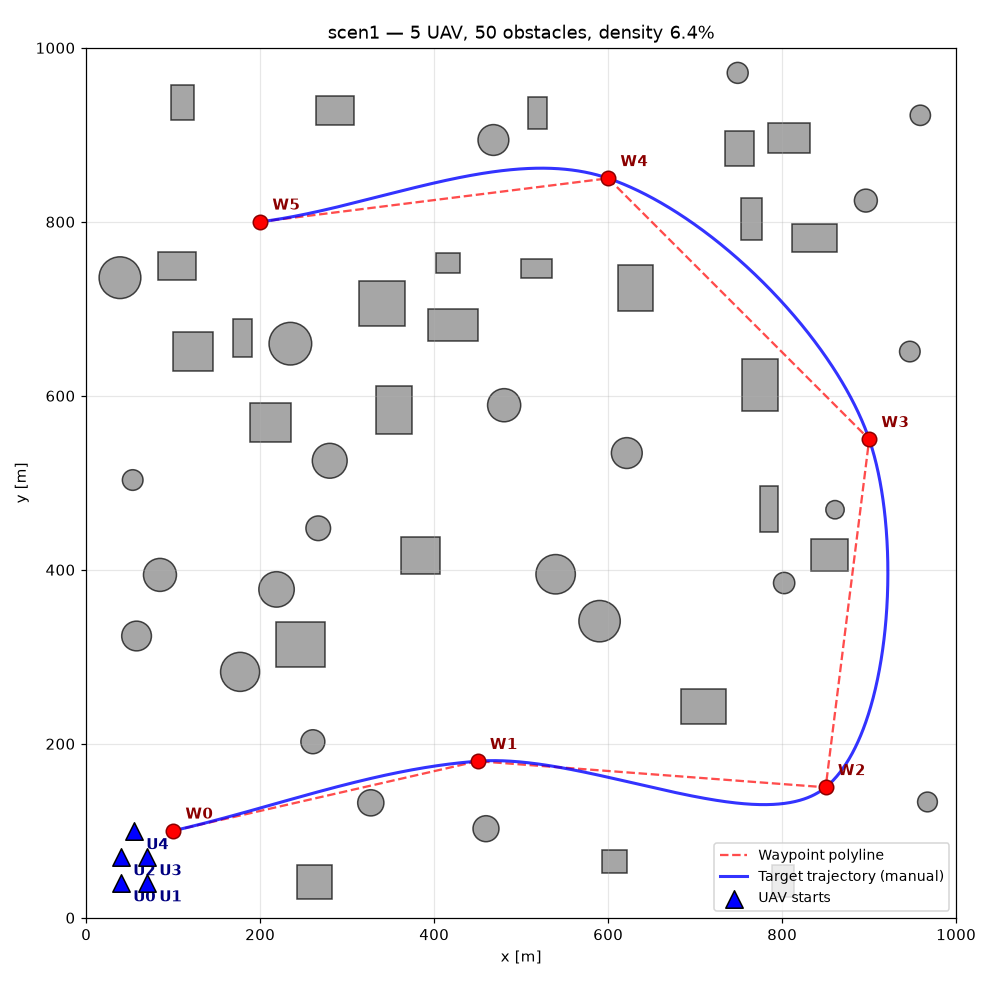
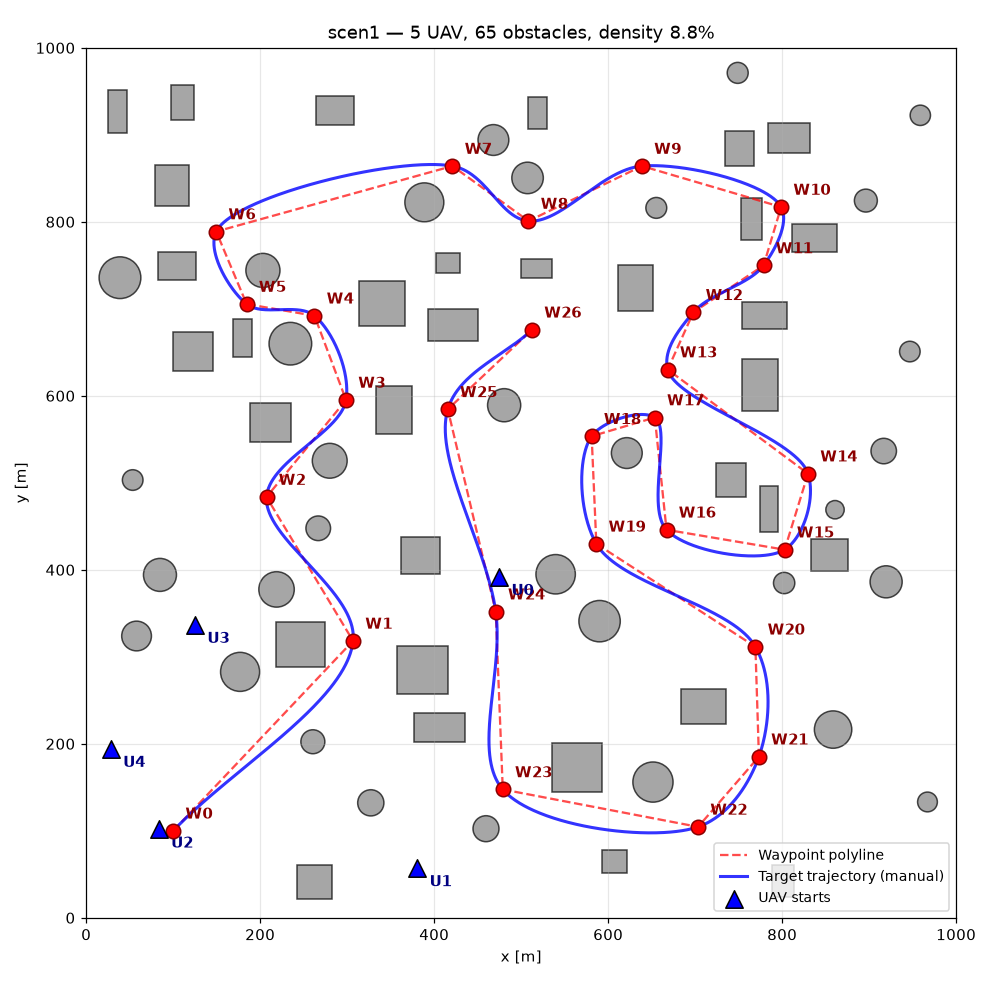
modify

diff --git a/mpc_problem.py b/mpc_problem.py
@@ -94,15 +94,19 @@ class MPCProblem:
         # X[0] is the measured state and is not constrained: a UAV already inside
         # the R margin of a face (by e) made the problem infeasible at every step,
         # it braked, stayed there and failed again (a 65 s deadlock in scen2).
-        # Instead, within the first CORRIDOR_RECOVER_STEPS steps the UAV may stay
-        # inside the margin by at most e: e for the first half (a UAV at rest
-        # cannot move away at once: acceleration lag), then shrinking linearly to
-        # 0. It never goes deeper than now and is out of the margin after that
-        # time. A UAV outside the margin has e = 0, i.e. the plain constraint
-        # A p <= b - R at every step.
-        K = max(2, int(cfg["CORRIDOR_RECOVER_STEPS"]))
+        # Instead the UAV may stay inside the margin by at most what it can have
+        # covered by then: allow(t) = max(0, e - s(t)), with s(t) = 0 for
+        # t <= CORRIDOR_RECOVER_HOLD (acceleration lag) and then the distance
+        # travelled from rest at CORRIDOR_RECOVER_ACCEL_RATIO * UMAX. It never goes
+        # deeper than now, a UAV at rest can always comply (half of UMAX), and the
+        # time to get out grows with e: ~0.7 s for 0.25 m, ~1.6 s for 2.25 m (a
+        # fixed 1 s deadline was infeasible for 2.25 m, another deadlock in scen2).
+        # A UAV outside the margin has e = 0: plain A p <= b - R at every step.
+        a_rec = cfg["CORRIDOR_RECOVER_ACCEL_RATIO"] * cfg["UMAX"]
+        t_hold = cfg["CORRIDOR_RECOVER_HOLD"]
         for i in range(1, H + 1):
-            allow = p["corr_relax"] * min(1.0, max(0.0, (K - i) / (K / 2)))
+            s_i = 0.5 * a_rec * max(0.0, i * dt - t_hold) ** 2
+            allow = ca.fmax(0, p["corr_relax"] - s_i)
             opti.subject_to(ca.mtimes(p["A_hard"], X[i, :2].T) <= p["b_hard"] - R + allow)
 
         # ── neighbours: |p - p_j| >= UAV_SAFE_DISTANCE, active only if flagged ──

diff --git a/robot_jps.py b/robot_jps.py
@@ -42,7 +42,7 @@ def _MPC_CFG():
     keys = ["HORIZON_LENGTH", "TIMESTEP", "ROBOT_RADIUS", "VMAX", "UMAX", "W_u", "W_gui",
             "W_tra", "STANDOFF_DISTANCE", "CORRIDOR_BARRIER_EPS", "W_corridor",
             "COLLISION_AVOID_DISTANCE", "W_collision_avoid", "UAV_SAFE_DISTANCE", "W_uav_slack",
-            "WORLD_BOUNDS", "W_bounds_slack", "CORRIDOR_RECOVER_STEPS", "W_leader_slack", "D_FRAC", "ACCEL_TAU",
+            "WORLD_BOUNDS", "W_bounds_slack", "CORRIDOR_RECOVER_ACCEL_RATIO", "CORRIDOR_RECOVER_HOLD", "W_leader_slack", "D_FRAC", "ACCEL_TAU",
             "CBF_BOX_RATIO", "VIEWING_RADIUS", "DT_CBF_GAMMA", "IPOPT_OPTIONS",
             "MPC_SOLVER", "SQP_OPTIONS", "SQP_FALLBACK_IPOPT", "COST_LENGTH_SCALE", "COST_ACCEL_SCALE"]
     return {k: getattr(_c, k) for k in keys}
@@ -486,7 +486,7 @@ class Robot:
                 # altogether, and the MPC planned straight through the obstacle.
                 # Use the polytope the UAV is least outside of; the MPC's recovery
                 # rule (mpc_problem.py) then lets it go no further out, and brings
-                # it back inside within CORRIDOR_RECOVER_STEPS.
+                # it back inside (CORRIDOR_RECOVER_ACCEL_RATIO / _HOLD).
                 k = int(np.argmin([np.max(A @ self.state[:2] - b.flatten())
                                    for A, b in zip(self.list_A, self.list_b)]))
                 active_A, active_b = self.list_A[k], self.list_b[k]

diff --git a/config.py b/config.py
@@ -183,8 +183,11 @@ W_uav_slack = 1e4              # penalty on violating UAV_SAFE_DISTANCE (soft-ha
 W_collision_avoid = 5.0        # soft repulsion below COLLISION_AVOID_DISTANCE
 COLLISION_AVOID_RATIO = 3.0    # COLLISION_AVOID_DISTANCE = max(ratio * R, 2.5 * UAV_SAFE_DISTANCE) (derived)
 W_bounds_slack = 1e4           # penalty on leaving WORLD_BOUNDS (soft-hard, like W_uav_slack)
-CORRIDOR_RECOVER_STEPS = 10    # a UAV inside a corridor face's R margin must leave it within this many
-                               # MPC steps and may never go deeper (keeps the hard corridor feasible)
+# A UAV inside a corridor face's R margin (by e) may never go deeper and must leave
+# it at the pace of an acceleration ratio * UMAX after a hold (keeps the hard corridor
+# feasible; see mpc_problem.py)
+CORRIDOR_RECOVER_ACCEL_RATIO = 0.5
+CORRIDOR_RECOVER_HOLD = 0.3    # s
 
 # ─── Mode switch hysteresis (counter based) ───
 K_IN_THRESHOLD = 3             # consecutive cycles seeing the target -> TRACK
